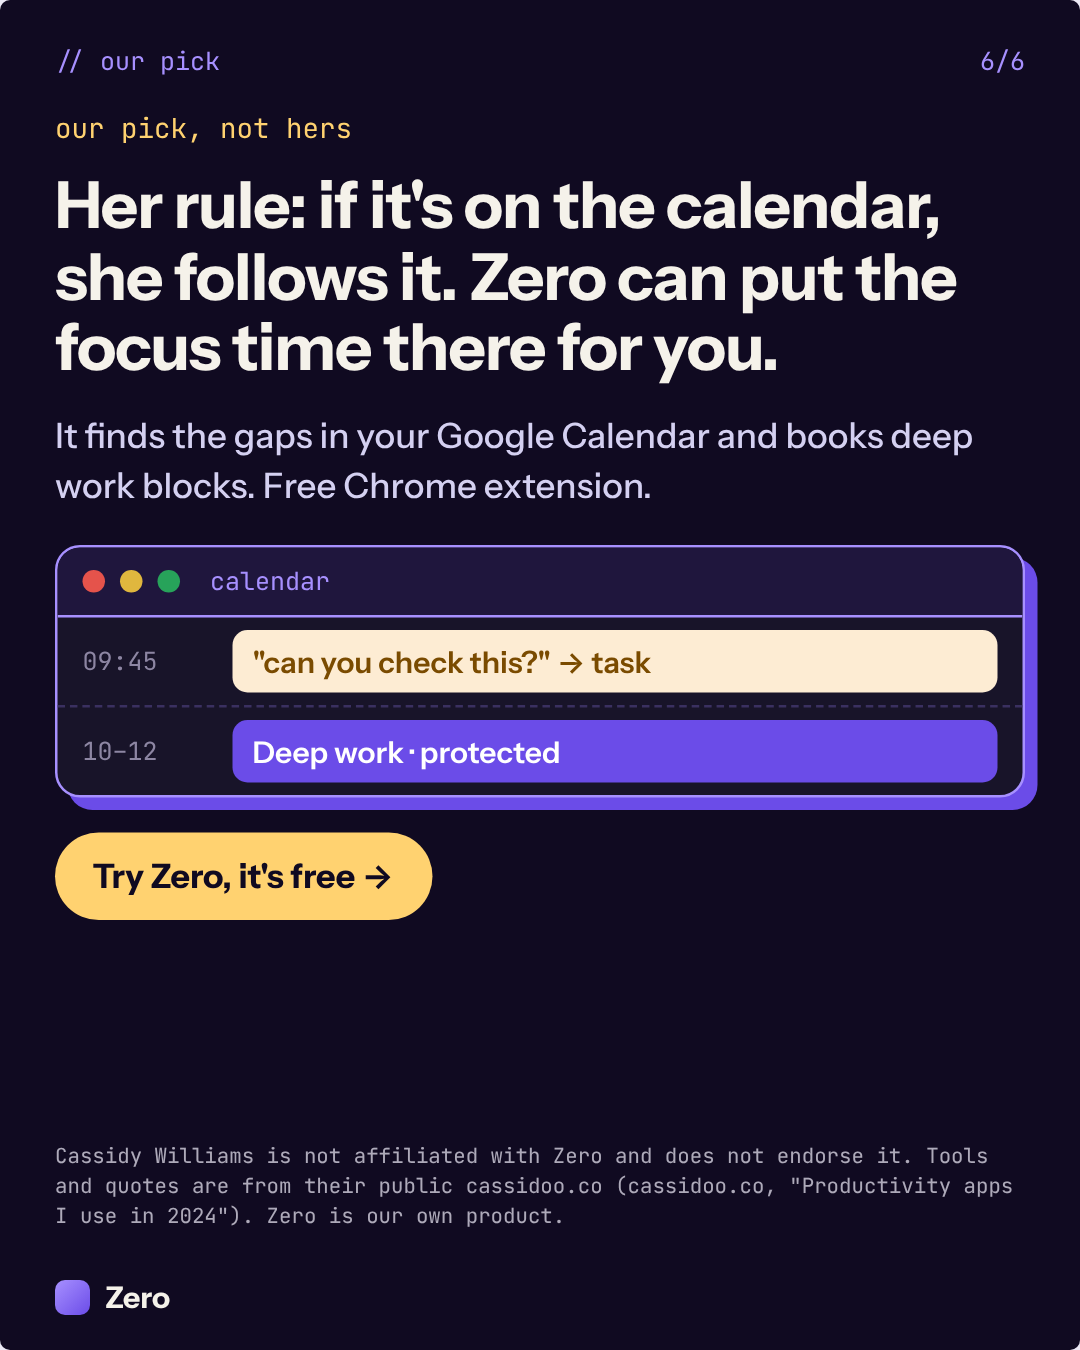
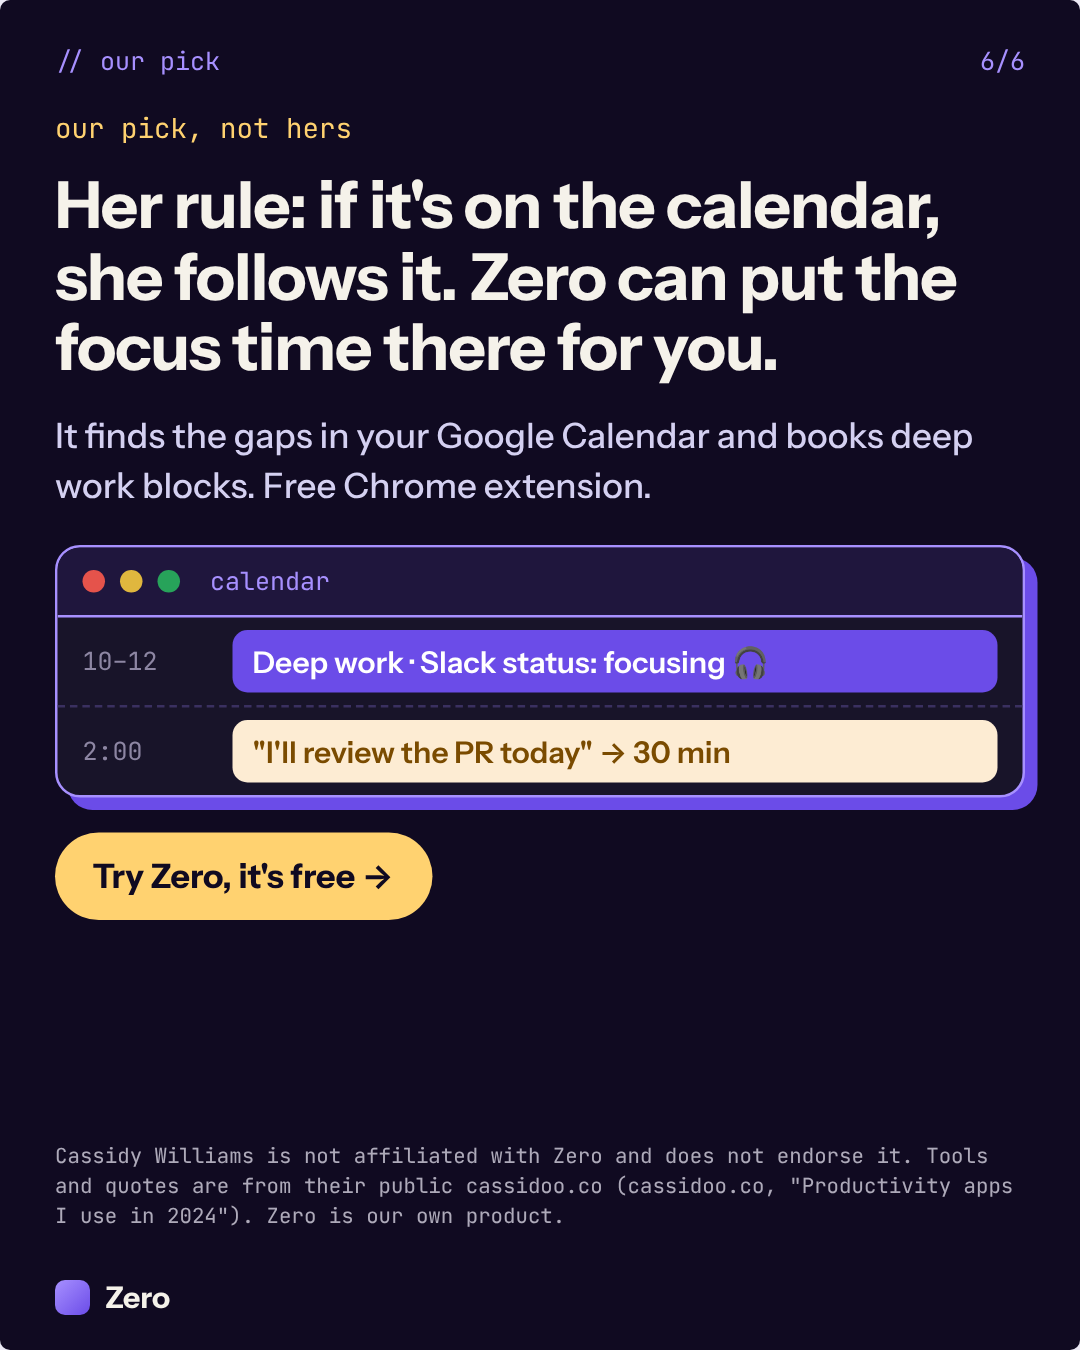
Show Zero's real Slack features on the last slide
Claude-Session: https://claude.ai/code/session_01EodZgjd13DjtzjPJnHAn5H

Changed region(s): [[0.2139, 0.4667, 0.9472, 0.5911], [0.0611, 0.4667, 0.1528, 0.4978], [0.0917, 0.5289, 0.1528, 0.56]]

diff --git a/carousels/setups.html b/carousels/setups.html
@@ -100,7 +100,7 @@ const S=[
     q:"Enable the Slack MCP, then paste a Slack bug thread into Claude and just say 'fix.' Zero context switching required.",c:"@bcherny, Claude Code team tips · 31 Jan 2026",why:"No jumping between Slack, the bug tracker and your editor. The bug comes to you."}],
   tldrTitle:"If you only steal 5:",
   tldr:["Run several sessions at once, tabs numbered","Add every mistake to a shared CLAUDE.md","Tag @.claude in PR reviews to teach it","Give it a way to check its own work","Paste Slack threads into Claude instead of switching tabs"],
-  zero:"Pasting Slack into Claude fixes half the problem.",zline:"The other half is Slack pulling you out of your work every few minutes. That's why we built Zero. Someone pings you, Zero turns it into a task and finds time for it on your calendar, so you can finish what you're doing first."},
+  zero:"Pasting Slack into Claude fixes half the problem.",zline:"The other half is Slack pulling you out of your work. Zero has a Slack app for that. Say \"I'll review the PR today\" and it books 30 minutes for it on your calendar. While you're in deep work, it sets your Slack status, and when you're back it can sum up the long threads you missed."},
  {id:"mitchell",who:"Mitchell Hashimoto",role:"co-founder of HashiCorp, creator of Ghostty",src:"blog, \"My AI Adoption Journey\", 5 Feb 2026",
   hook:["The HashiCorp co-founder","shared how he","<span class='hl'>really</span> uses AI."],
   sub:"No hype. Just 3 habits from a guy who's been shipping for 20 years.",
@@ -165,7 +165,7 @@ function slides(s){
   <p style="font-family:var(--mono);font-size:11px;color:#ffd270;margin:0">our pick, not ${s.id==="cassidy"?"hers":"his"}</p>
   <h2 class="h2" style="margin-top:10px;color:#f5f2ea">${s.zero}</h2>
   <p class="p" style="margin-top:10px;color:#d4d0f1;font-size:14px">${s.zline}</p>
-  <div style="margin-top:14px">${W("calendar",`<div class="cal"><div class="r"><span class="t">09:45</span><span class="ev s">"can you check this?" → task</span></div><div class="r"><span class="t">10–12</span><span class="ev d">Deep work · protected</span></div></div>`)}</div>
+  <div style="margin-top:14px">${W("calendar",`<div class="cal"><div class="r"><span class="t">10–12</span><span class="ev d">Deep work · Slack status: focusing 🎧</span></div><div class="r"><span class="t">2:00</span><span class="ev s">"I'll review the PR today" → 30 min</span></div></div>`)}</div>
   <div style="margin-top:14px"><span class="zbtn">Try Zero, it's free →</span></div>
   <p class="disc" style="margin-top:auto">${s.who} is not affiliated with Zero and does not endorse it. Tools and quotes are from their public ${s.src.split(",")[0]} (${s.src}). Zero is our own product.</p>`,"zero"));
  return a.join("");
